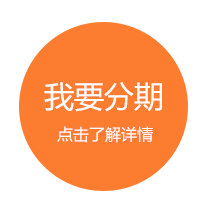
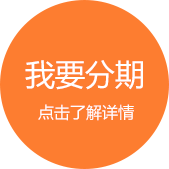
修改首页banner 左右翻转按钮  修改旋转图片bug

diff --git a/res/css/index.css b/res/css/index.css
@@ -920,12 +920,12 @@ h1,h2,h3,h4,h5{font-weight:500;}
 .index-divn .content{}
 
 .loan-img{position:relative;}
-.loan-img .rotate{position:absolute;left:495px;top:-9px;transition:all 1s ease-in-out;}
-.loan-img .rotate:hover{transform:rotateZ(360deg);transform-origin: 102px 107.5px;
--ms-transform:rotate(360deg); -ms-transform-origin: 102px 107.5px;
--moz-transform:rotate(360deg); -moz-transform-origin: 102px 107.5px;
--webkit-transform:rotate(360deg);-webkit-transform-origin: 102px 107.5px;
--o-transform:rotate(360deg); -o-transform-origin:102px 107.5px;
+.loan-img .rotate{position:absolute;left:514px;top:13px;transition:all 1s ease-in-out;}
+.loan-img .rotate:hover{transform:rotateZ(360deg);
+-ms-transform:rotate(360deg);
+-moz-transform:rotate(360deg); 
+-webkit-transform:rotate(360deg);
+-o-transform:rotate(360deg);
 }
 .loan-img .rotate:active{transform:scale(1.1);
 -ms-transform:scale(1.1);

diff --git a/res/css/carouFredSel.css b/res/css/carouFredSel.css
@@ -148,3 +148,7 @@
 .ui-slider .pagerNum a.selected {
 	background: url(../images/bg_direction_point2.gif) no-repeat left top;
 }
+
+.index-slide .prev,.index-slide .next{transition:all .5s ease-in-out;opacity:0.4;background:url('../images/i_left.png') no-repeat 45% center;background-color:#3c3c3c;top:255px;height:60px;width:60px;border-radius:50px;}
+.ui-slider:hover  .prev,.ui-slider:hover  .next{opacity:0.8;}
+.index-slide .next{background:url('../images/i_right.png') no-repeat 55% center;background-color:#3c3c3c;}
